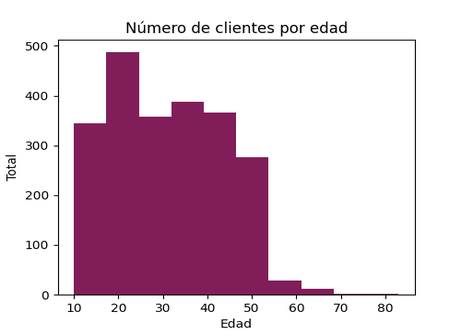
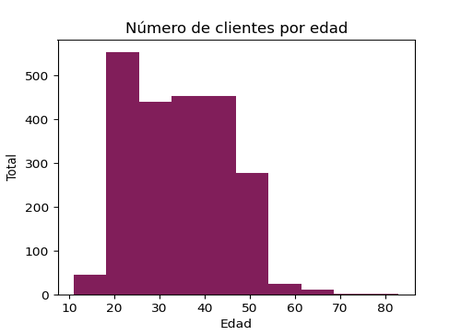
Final.1

diff --git a/main.py b/main.py
@@ -413,7 +413,7 @@ class DashboardScreen(QMainWindow):
         #Verificar que no haya edades menores a 10 ni mayores a 100 años y si hay ponerlos entre 10 y 50
         for i in range(len(df["FechaNacimiento"])):
             if df["FechaNacimiento"][i] < 10 or df["FechaNacimiento"][i] > 100:
-                df["FechaNacimiento"][i] = random.randint(10,50)
+                df["FechaNacimiento"][i] = random.randint(18,50)
         plt.figure (figsize=(5,4))
         plt.title("Número de clientes por edad")
         plt.ylabel("Total")
@@ -654,28 +654,23 @@ class DashboardScreen(QMainWindow):
         #------------------------
         #empleados_graphicsView_6
         #------------------------
-        #Grafica pastel Seleccionar ServicioContratado de calzado lo contamos y lo multiplicamos por el costo de la tabla servicio
-        
-        #------------------------
-        #empleados_graphicsView_7
-        #------------------------
         #Grafica lineplot de lluvias 
         #leer lluvias.csv
         df = pd.read_csv("csv/Lluvias.csv")
         df.columns = ["Mes", "Lluvias"]
-        plt.figure (figsize=(4,4))
+        plt.figure (figsize=(5,5))
         plt.title("Lluvias")
         plt.xticks(rotation = 45)
         sns.lineplot(x="Lluvias", y="Mes", data=df, color="#811e5a")
-        plt.savefig("graficas/empleados7.png")
-        img = Image.open("graficas/empleados7.png")
-        img = img.crop((15, 20, 395,400))
-        img = img.resize((241,291), Image.LANCZOS)
-        img.save("graficas/empleados7.png")
-        self.empleados_graphicsView_7.setStyleSheet("background-image: url(graficas/empleados7.png);")
+        plt.savefig("graficas/empleados6.png")
+        img = Image.open("graficas/empleados6.png")
+        img = img.crop((15, 30, 480,500)) #left, top, right, bottom
+        img = img.resize((461,301), Image.LANCZOS)
+        img.save("graficas/empleados6.png")
+        self.empleados_graphicsView_6.setStyleSheet("background-image: url(graficas/empleados6.png);")
         
         #------------------------
-        #empleados_graphicsView_8
+        #empleados_graphicsView_7
         #------------------------
         #Grafica lineplot de 
         cursor.execute("SELECT FechaLlegada, Count(*) FROM calzado GROUP BY FechaLlegada")
@@ -685,12 +680,12 @@ class DashboardScreen(QMainWindow):
         plt.figure (figsize=(3,3))
         plt.title("Tenis recibido por día")
         plt.bar(df["Fecha"], df["Total"], color="#811e5a")
-        plt.savefig("graficas/empleados8.png")
-        img = Image.open("graficas/empleados8.png")
+        plt.savefig("graficas/empleados7.png")
+        img = Image.open("graficas/empleados7.png")
         img = img.crop((0, 0, 300,275))
-        img = img.resize((241,291), Image.LANCZOS)
-        img.save("graficas/empleados8.png")
-        self.empleados_graphicsView_8.setStyleSheet("background-image: url(graficas/empleados8.png);")
+        img = img.resize((521,291), Image.LANCZOS)
+        img.save("graficas/empleados7.png")
+        self.empleados_graphicsView_7.setStyleSheet("background-image: url(graficas/empleados7.png);")
         plt.close()
 
 
@@ -781,7 +776,7 @@ def verificarServicios():
 # prepareDatabase()
 # verificarServicios()
 app = QApplication(sys.argv)
-welcome = DashboardScreen() #WelcomeScreen CAMBIAR
+welcome = WelcomeScreen()
 widget = QtWidgets.QStackedWidget()
 widget.addWidget(welcome)
 widget.show()
